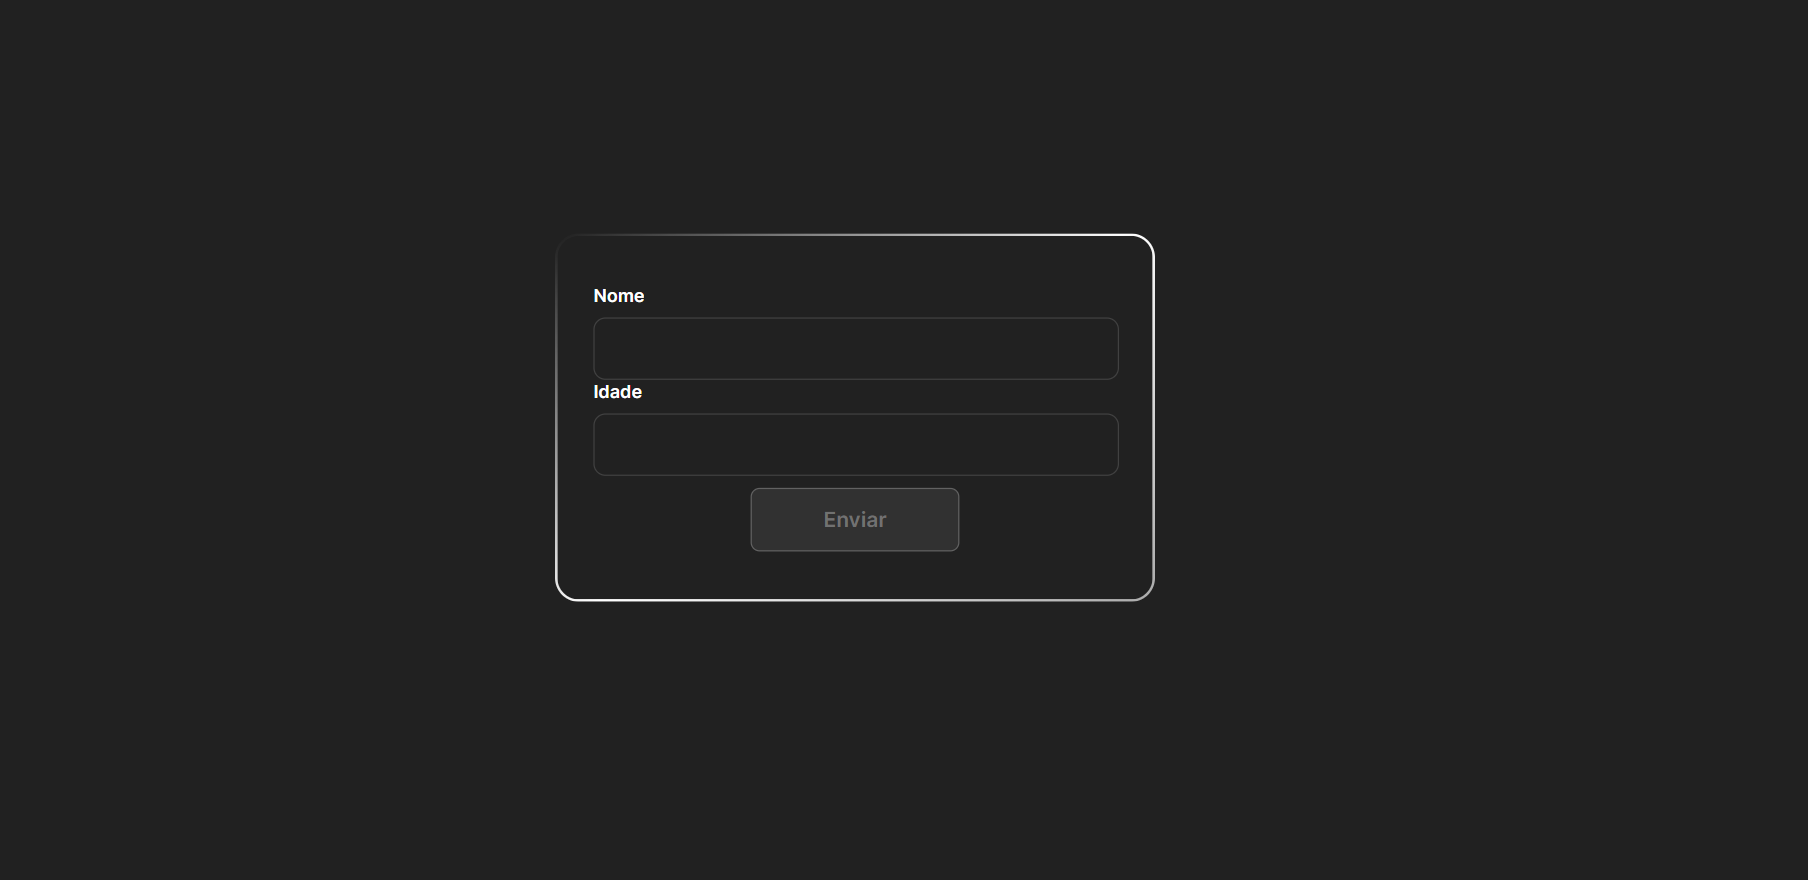
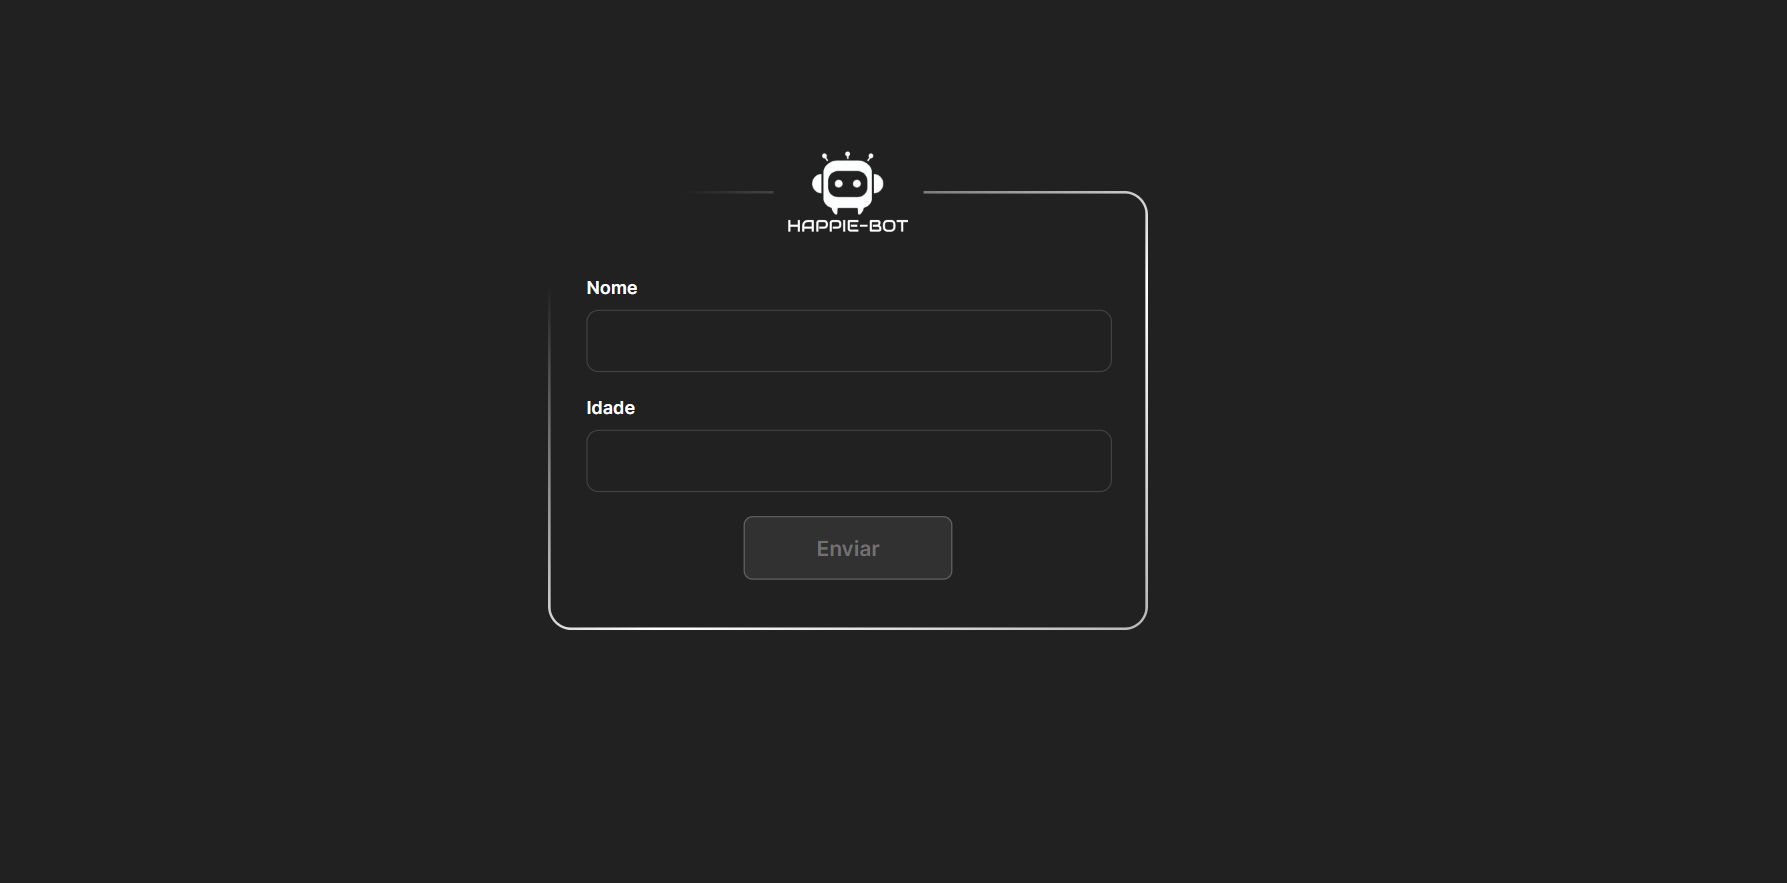
antes de enviar 3

diff --git a/static/style.css b/static/style.css
@@ -177,26 +177,32 @@ body{
     height: 60px;
 }
 
-.input-group{
-    display: flex;
-    align-items: center;
-}
-
 .input-chat{
     font-size: 22px;
     padding: 16px 20px;
-    background-color: #333;
+    border-radius: 24px;
+    width: 100%;
     color: #aaa;
-    border: #676767 solid 1px;
     outline: none;
+    border: 0;
+    background-color: transparent;
+}
+
+.input-group{
+    background-color: #333;
+    border: #676767 solid 1px;
     border-radius: 24px;
     width: 80vw;
     max-width: 900px;
     transition: .2s all;
+    display: flex;
+    align-items: center;
+    justify-content: space-between;
+    overflow: hidden;
 }
 
-.input-chat:focus{
-    box-shadow: 0 0 4px rgba(255, 255, 255, .2);
+.input-group:focus-within{
+    box-shadow: 0 0 4px rgba(255, 255, 255, .3);
 }
 
 .btn-chat{
@@ -211,10 +217,12 @@ body{
     transition: .2s all;
     opacity: 0;
     overflow: hidden;
+    transform: translate(130%, 0);
+    margin-right: 10px;
 }
 
 .btn-chat.mostrar{
-    transform: translate(-120%, 0);
+    transform: translate(0, 0);
     opacity: 1;
 }
 
@@ -270,6 +278,10 @@ body{
     justify-content: center;
 }
 
+.link-btn{
+    transition: .3s all;
+}
+
 .link-btn button{
     color: #fff;
     font-size: 20px;
@@ -287,35 +299,39 @@ body{
     filter: brightness(1.3);
 }
 
+.link-btn:active{
+    transform: translateY(3px);
+}
+
 /* Arthur esteve aqui */
 a{
     text-decoration: none;
 }
 
 .menu__link{
-    color: #fff;
+    color: #000;
     line-height: 2;
     position: relative;
     text-decoration: none;
     top: 20px;
     left: 20px;
     font-size: 22px;
+    padding: 8px 16px;
+    background-color: #aaa;
+    border-radius: 8px;
+    border: 2px solid #aaa;
+    transition: .3s all;
+    font-weight: 500;
 }
-  
-.menu__link::before {
-    content: '';
-    width: 0;
-    height: 2px;
-    border-radius: 2px;
-    background-color: #fff;
-    position: absolute;
-    bottom: -.25rem;
-    left: 0;
-    transition: width .4s;
+
+.menu__link:hover{
+    cursor: pointer;
+    color: #fff;
+    background-color: transparent;
 }
-  
-.menu__link:hover::before {
-    width: 100%;
+
+.menu__link:active{
+    scale: .95;
 }
 
 .user-message {
@@ -362,4 +378,24 @@ a{
 
 .button-container button:hover {
     background-color: #45a049;
+}
+
+@media screen and (max-width: 1540px){
+    body{
+        overflow: hidden;
+    }
+
+    .div-chat{
+        margin: 50px auto 10%;
+    }
+}
+
+@media screen and (max-width: 945px){
+    .sec-botoes{
+        flex-wrap: wrap;
+    }
+
+    .link-btn button{
+        width: 250px;
+    }
 }

diff --git a/templates/form.html b/templates/form.html
@@ -8,27 +8,40 @@
     <link rel="icon" type="image/png" href="/static/img/logo icon.jpg">
 </head>
 <body>
-    <div class="logo">
-      <img class="imglogo" src="/static/img/teste-removebg-preview.png" alt="">
-    </div>
-    <div class="form-container">
-        <form class="formLogin" action="/salvar_dados" method="post">
-          <div class="form-group">
-            <label for="email">Nome</label>
-            <input required="" name="nome" id="email" type="text" autocomplete="off">
-          </div>
-          <div class="form-group">
-            <label for="textarea">Idade</label>
-            <input required="" name="idade" id="textarea" type="number" autocomplete="off">
-          </div>
-          <button type="submit" class="form-submit-btn">Enviar</button>
-        </form>
-      </div>
-      <script>
-        const form = document.querySelector(".formLogin")
-        form.addEventListener('submit', () => {
-          localStorage.removeItem('loadStat')
-        })
-      </script>
+  <div class="div-loader">
+    <div class="loader"></div>
+  </div>
+  <div class="logo">
+    <img class="imglogo" src="/static/img/teste-removebg-preview.png" alt="">
+  </div>
+  <div class="form-container">
+      <form class="formLogin" action="/salvar_dados" method="post">
+        <div class="happie-icon">
+          <img src="../static/img/image.png">
+        </div>
+        <div class="form-group">
+          <label for="email">Nome</label>
+          <input required="" name="nome" id="email" type="text" autocomplete="off">
+        </div>
+        <div class="form-group">
+          <label for="textarea">Idade</label>
+          <input required="" name="idade" id="textarea" type="number" autocomplete="off">
+        </div>
+        <button type="submit" class="form-submit-btn">Enviar</button>
+      </form>
+  </div>
+  <script>
+    window.addEventListener('load', () => {
+      const divLoader = document.querySelector(".div-loader")
+      divLoader.style.opacity = 0
+      setTimeout(function(){
+          divLoader.remove()
+      }, 300)
+    })
+    const form = document.querySelector(".formLogin")
+    form.addEventListener('submit', () => {
+      localStorage.removeItem('loadStat')
+    })
+  </script>
 </body>
 </html>

diff --git a/static/form.css b/static/form.css
@@ -15,6 +15,40 @@ body {
     font-family: "Inter", sans-serif;
 }
 
+.div-loader{
+    height: 100vh;
+    width: 100vw;
+    position: fixed;
+    z-index: 9999;
+    background-color: #212121;
+    display: flex;
+    justify-content: center;
+    align-items: center;
+    transition: .3s all;
+}
+
+.loader {
+    width: 45px;
+    height: 40px;
+    background: linear-gradient(#0000 calc(1*100%/6),#fff 0 calc(3*100%/6),#0000 0),
+              linear-gradient(#0000 calc(2*100%/6),#fff 0 calc(4*100%/6),#0000 0),
+              linear-gradient(#0000 calc(3*100%/6),#fff 0 calc(5*100%/6),#0000 0);
+    background-size: 10px 400%;
+    background-repeat: no-repeat;
+    animation: matrix 1s infinite linear;
+    transition: .2s all;
+}
+
+@keyframes matrix {
+    0% {
+      background-position: 0% 100%, 50% 100%, 100% 100%
+    }
+  
+    100% {
+      background-position: 0% 0%, 50% 0%, 100% 0%
+    }
+}
+
 .form-container {
     transition: all 2s initial;
     scale: 1.2;
@@ -61,10 +95,24 @@ body {
     gap: 20px;
 }
 
+.happie-icon{
+    background-color: #212121;
+    width: 100px;
+    border-radius: 50%;
+    display: flex;
+    justify-content: center;
+    margin: -60px auto 30px;
+}
+
+.happie-icon img{
+    width: 80px;
+}
+
 .form-container .form-group {
     display: flex;
     flex-direction: column;
     gap: 2px;
+    margin-bottom: 16px;
 }
 
 .form-container .form-group label {
@@ -159,4 +207,17 @@ a{
   
 .menu__link:hover::before{
     width: 100%;
+}
+
+@media screen and (max-width: 1100px){
+    .form-container{
+        scale: 1;
+
+    }
+}
+
+@media screen and (max-width: 700px){
+    .form-container{
+        width: 80vw;
+    }
 }
